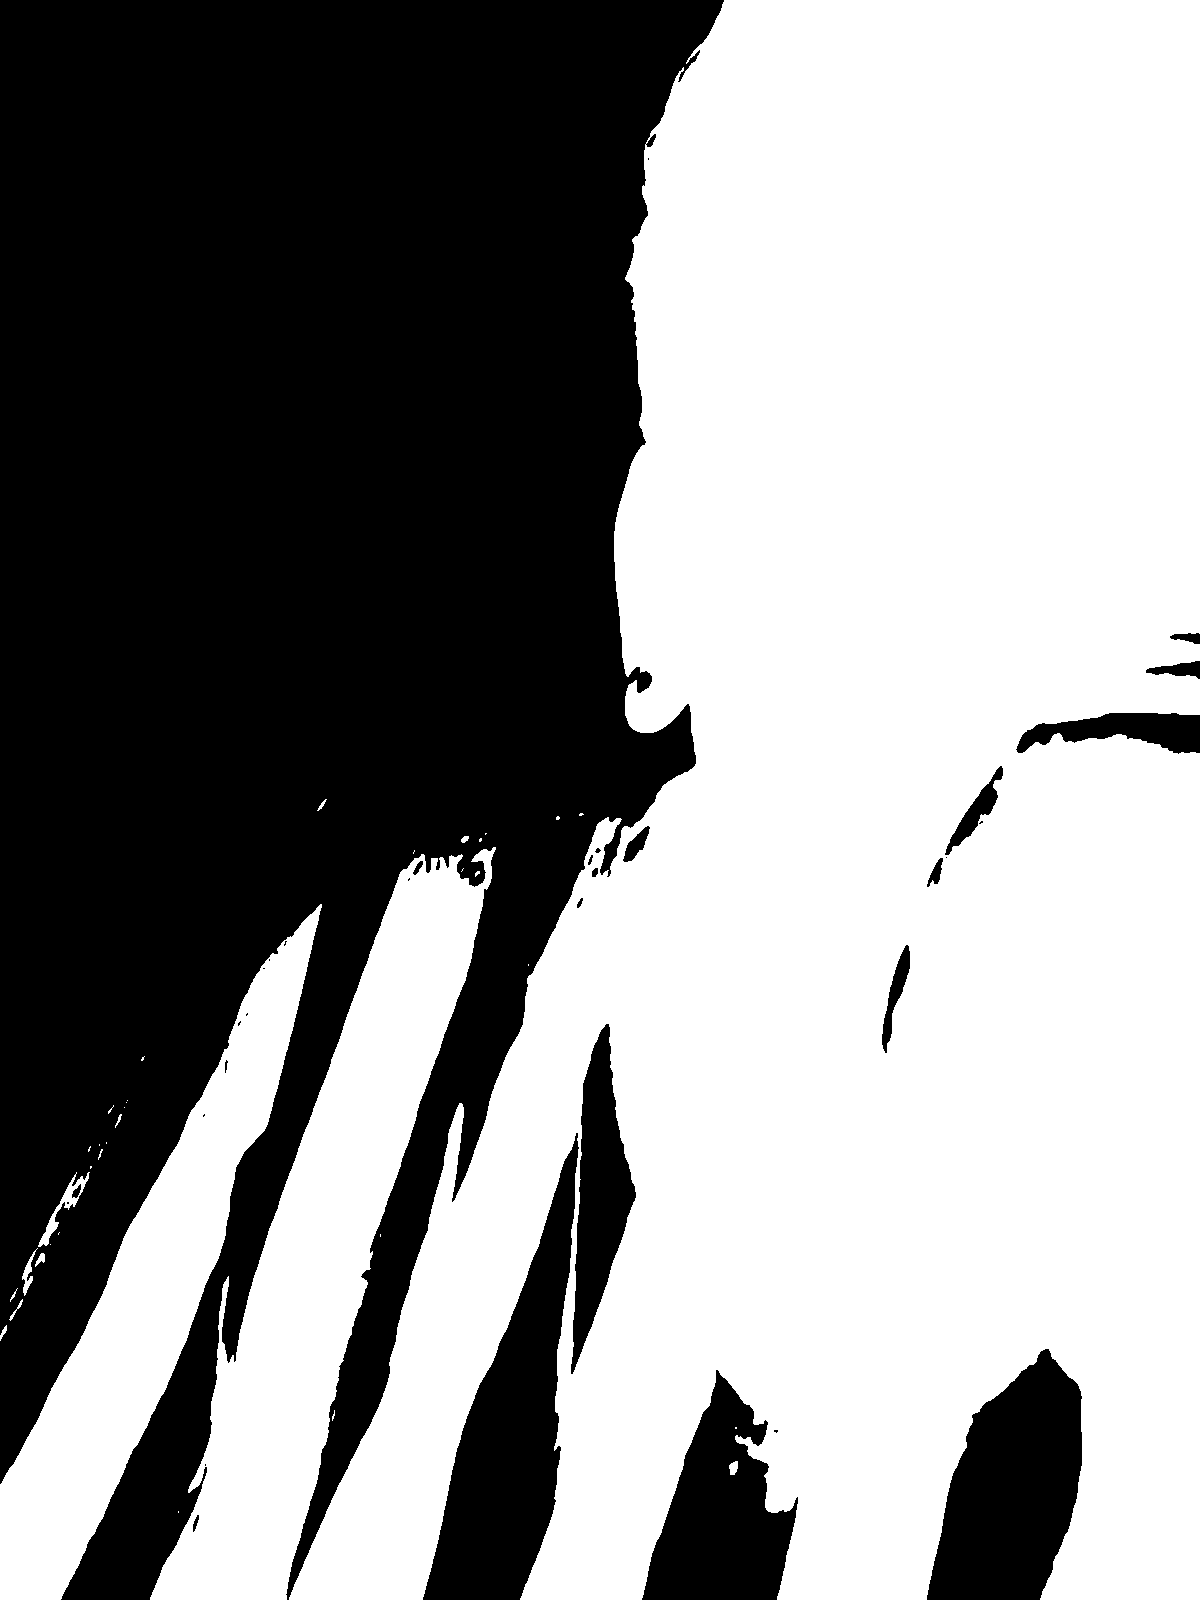
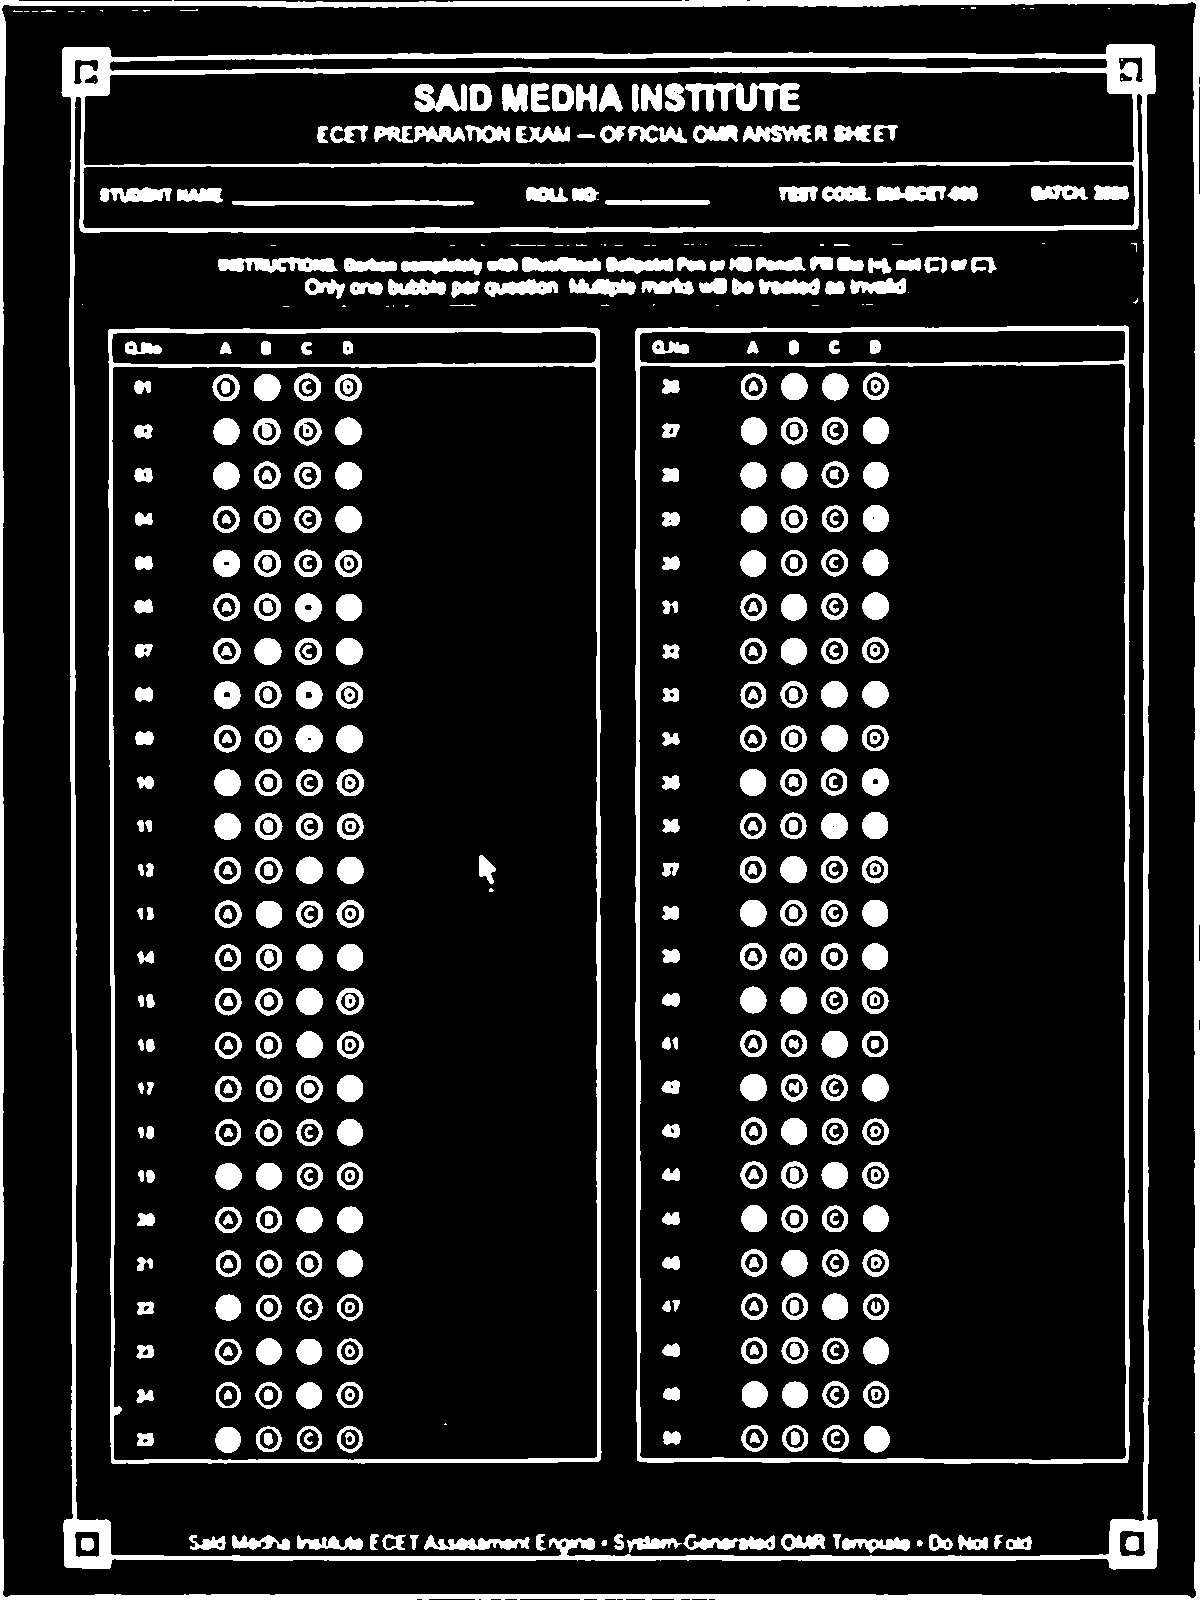
Implement CamScanner-grade shadow removal, background illumination normalization, and homography alignment

diff --git a/omr_engine.py b/omr_engine.py
@@ -347,22 +347,36 @@ def align_sheet(image: np.ndarray, spec: dict, debug: bool = False) -> np.ndarra
 
 
 # ─────────────────────────────────────────────────────────────────────────────
-# Stage 3 — Image Preprocessing
+# Stage 3 — Image Preprocessing & CamScanner-Grade Shadow Normalization
 # ─────────────────────────────────────────────────────────────────────────────
+
+def remove_shadows(gray: np.ndarray) -> np.ndarray:
+    """
+    CamScanner-grade shadow removal:
+    Estimates background illumination field using morphological dilation
+    and median blur, then divides/normalizes out shadows, glare, and uneven lighting.
+    """
+    dilated = cv2.dilate(gray, np.ones((7, 7), np.uint8))
+    bg_blur = cv2.medianBlur(dilated, 21)
+    diff = 255 - cv2.absdiff(gray, bg_blur)
+    norm = cv2.normalize(diff, None, alpha=0, beta=255, norm_type=cv2.NORM_MINMAX, dtype=cv2.CV_8U)
+    return norm
+
 
 def preprocess(image: np.ndarray, debug: bool = False) -> np.ndarray:
     """
     Convert to clean binary image optimized for bubble detection.
-    Uses Otsu's method for global threshold on white-paper OMR sheets,
-    with adaptive threshold as secondary signal.
+    Applies shadow removal, Gaussian blur, and Otsu's bimodal thresholding.
     """
     gray = cv2.cvtColor(image, cv2.COLOR_BGR2GRAY)
     
-    # Light Gaussian blur to reduce noise without destroying bubble fills
-    blurred = cv2.GaussianBlur(gray, (3, 3), 0)
+    # Step 1: Normalize uneven lighting and shadows
+    normalized = remove_shadows(gray)
     
-    # Otsu's thresholding — automatically finds optimal threshold for
-    # bimodal distribution (white paper + dark marks)
+    # Step 2: Light Gaussian blur to eliminate tiny graininess
+    blurred = cv2.GaussianBlur(normalized, (3, 3), 0)
+    
+    # Step 3: Otsu binarization
     otsu_thresh, binary_otsu = cv2.threshold(
         blurred, 0, 255, cv2.THRESH_BINARY_INV + cv2.THRESH_OTSU
     )
